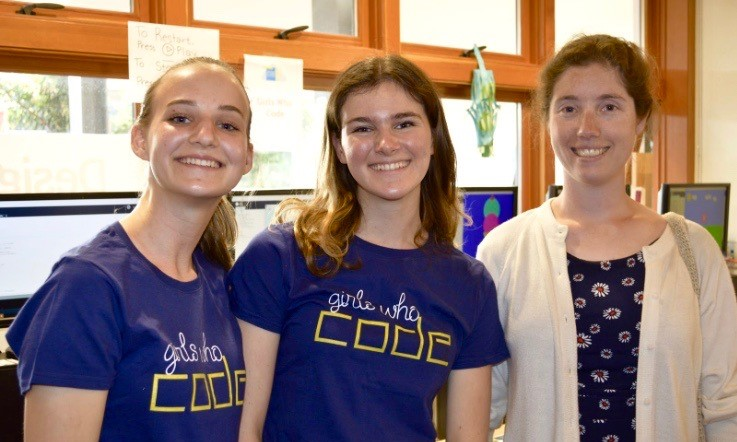
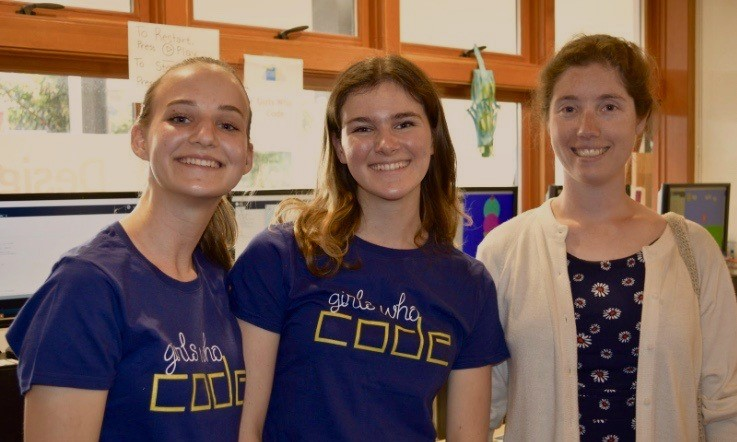
make images look better

diff --git a/index.html b/index.html
@@ -46,7 +46,6 @@
 		<li data-target="#demo" data-slide-to="2"></li>
 		<li data-target="#demo" data-slide-to="3"></li>
 		<li data-target="#demo" data-slide-to="4"></li>
-		<li data-target="#demo" data-slide-to="5"></li>
 	  </ul>
 
 	  <!-- The slideshow -->
@@ -64,11 +63,9 @@
 		  <img src="jumpingCSA.jpg" alt="img ">
 		</div>
 		<div class="carousel-item">
-		  <img src="RoboticsGroup.jpeg" alt="img ">
+		  <img src="RoboticsGroup.png" alt="img ">
 		</div>
-		<div class="carousel-item">
-		  <img src="sbhs.jpg" alt="img ">
-		</div>
+
 	  </div>
 
 	  <!-- Left and right controls -->

diff --git a/robotics.html b/robotics.html
@@ -38,7 +38,7 @@
     </nav>
 	
 	<div class="container" >
-		<img src="RoboticsGroup.jpeg" id="background-img" alt="Image of Robotics Group Members At Competition" class="titleimg">
+		<img src="RoboticsGroup.png" id="background-img" alt="Image of Robotics Group Members At Competition" class="titleimg">
 		<h1 class="titletext">Robotics</h1>
 	</div>
 	

diff --git a/globalStyle.css b/globalStyle.css
@@ -11,7 +11,7 @@
 	padding-right:0px;
 	padding-top: 25px;
 	padding-bottom: 50px;
-	opacity: 0.55;
+	opacity: 0.75;
  }
  
  .titletext{
